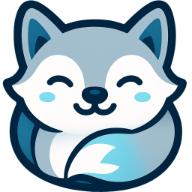
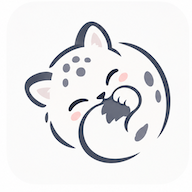
chore(assets): 브랜드 리뉴얼에 맞춰 이미지 에셋 교체 및 정리
PWA 매니페스트 아이콘, OG 이미지, RSS/border/empty 일러스트를 새 마스코트
톤에 맞게 교체. LogoBorder 크기를 새 border.webp 비율(50x50)에 맞춰 조정.
더 이상 쓰지 않는 error/login/music/not_found/search/working webp는 삭제.

diff --git a/src/components/posts/LogoBorder.tsx b/src/components/posts/LogoBorder.tsx
@@ -9,8 +9,8 @@ export const LogoBorder = async () => {
             <Image
                 src='/images/border.webp'
                 alt={t('decorativeLogo')}
-                width={80}
-                height={53}
+                width={50}
+                height={50}
                 style={{
                     position: 'absolute',
                     bottom: '-0.5rem',
